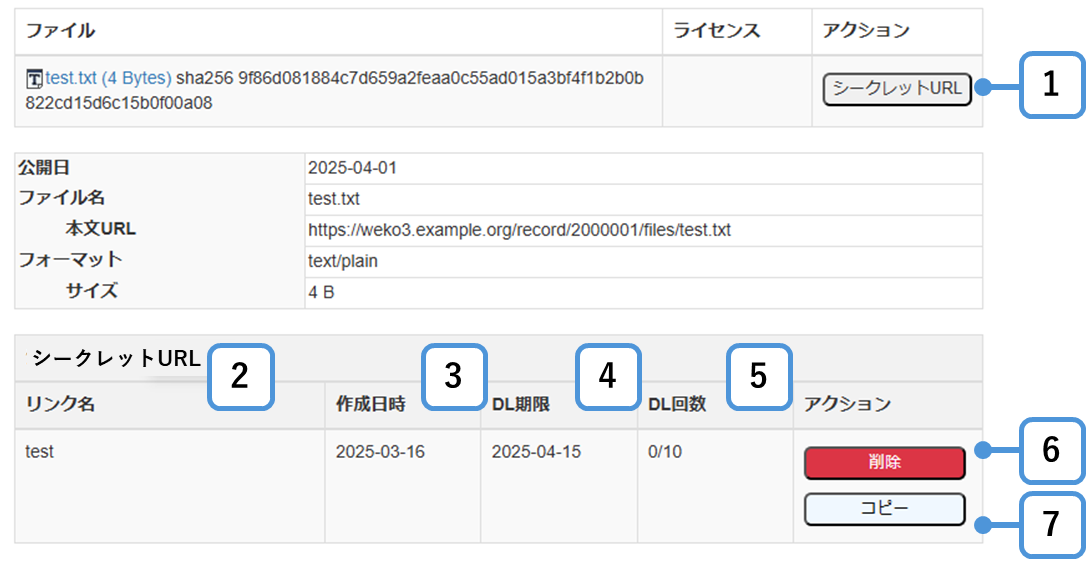
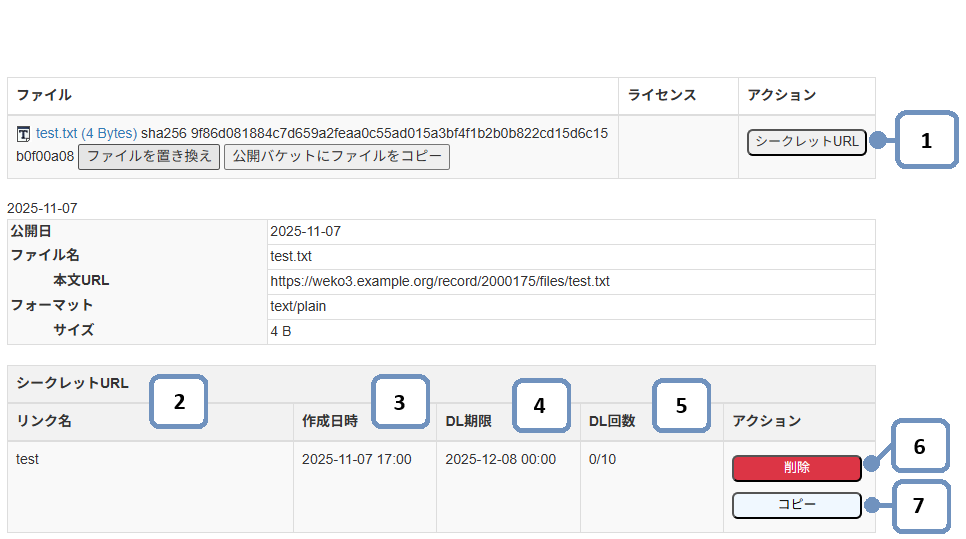
fix secret url image

diff --git a/docs/manuals/USER/base/README.md b/docs/manuals/USER/base/README.md
@@ -5016,120 +5016,6 @@ Registration\]画面で表示されるファイル情報の入力エリア順と
 
 ![](media/media/image294.png)
 
-### 非公開コンテンツをワンタイムアドレスを利用して共有したい
-
-
-#### シークレットURL機能
-<p>管理者画面でシークレットURL機能を有効化することで、シークレットURLを発行することができます。<br>
-シークレットURLとは、投稿者（代理投稿者を含む）及びシステム、リポジトリ管理者が発行できるワンタムアドレスであり、このURLを知っている人は、誰でも対象のコンテンツファイルをダウンロードできます</p>
-
-**本機能は、公開コンテンツ、ならびにサイトライセンス機能を利用してサイトライセンスユーザーに対してアクセス可能になっているコンテンツに対して、<span style="color: red; ">新たにアクセス権限を付与し、シークレットURLを通じたアクセスに制限する機能ではありません<span>。**
-
- 下記の条件を満たすことで、Information画面のファイルエリアに「Secret URL」ボタンが表示されます。
- 
- 1.アイテム投稿者・アイテムの代理投稿者・リポジトリ管理者・システム管理者がログインしている。
- 
- 2.管理画面の制限公開画面にて、シークレットURLの表示を有効化している。
- 
- 3.当該ファイルを「公開しない」と設定している。または、ファイルが「オープンアクセス日を指定する」と設定し、指定日が未来日である。
- 
- ![](media/media/images01.png)
- 
- 図9s1 シークレットURL機能を有効化した場合のInformation画面ファイルエリア
-
-シークレットURL機能を有効化した場合、以下の項目が追加されます。
-
-表 9‑s1 シークレットURL機能有効化時に表示される項目と説明
-
-<table>
-<thead>
-<tr class="header">
-<th>項番</th>
-<th>項目</th>
-<th>説明</th>
-</tr>
-</thead>
-<tbody>
-<tr class="odd">
-<td>1</td>
-<td>シークレットURLボタン</td>
-<td><p>このボタンをクリックすることで、シークレットURLを作成欄が表示されます。</p></td>
-</tr>
-<tr class="even">
-<td>2</td>
-<td>リンク名</td>
-<td><p>シークレットURLが作成されている場合に表示されます。</p><p>シークレットURL作成時に付与したリンク名、リンク名を付与しなかった場合は当該URLの識別子が表示されます</p></td>
-</tr>
-<tr class="odd">
-<td>3</td>
-<td>作成日時</td>
-<td><p>シークレットURLが作成されている場合に表示されます。</p><p>当該シークレットURLの作成日時が表示されます</p></td>
-</tr>
-<tr class="even">
-<td>4</td>
-<td>DL期限</td>
-<td><p>シークレットURLが作成されている場合に表示されます。</p><p>当該シークレットURLのDL回数と残DL回数が表示されます</p></td>
-</tr>
-<tr class="odd">
-<td>6</td>
-<td>削除ボタン</td>
-<td><p>シークレットURLが作成されている場合に表示されます。</p><p>このボタンをクリックすると、削除確認モーダル画面が表示され、このモーダル画面内の削除ボタンをクリックすると、当該シークレットURLが削除されます。削除をやめる場合は閉じるボタンをクリックし、モーダル画面を閉じてください。</p></td>
-<tr class="odd">
-<td>7</td>
-<td>コピーボタン</td>
-<td><p>シークレットURLが作成されている場合に表示されます。</p><p>このボタンをクリックすると、モーダル画面が表示され、発行したシークレットURLをクリップボードにコピーすることができます。モーダル画面上の閉じるボタンをクリックすることで、モーダル画面を閉じることができます。</p></td>
-</tr>
-</tr>
-</tbody>
-</table>
-
-「Secret URL」ボタンをクリックすると、シークレットURL編集作成欄が表示されます。
-
-　![](media/media/images02.png)
-
-図 9s2 シークレッㇳURLボタンをクリックし、シークレットURL作成欄を表示した状態
-
-シークレットURL作成欄の各項目の内容は以下の通りです。
-
-表 9‑s2 シークレットURL作成欄の項目と説明
-
-<table>
-<thead>
-<tr class="header">
-<th>項番</th>
-<th>項目</th>
-<th>説明</th>
-</tr>
-</thead>
-<tbody>
-<tr class="odd">
-<td>1</td>
-<td>作成ボタン</td>
-<td><p>このボタンをクリックすることで、シークレットURLを作成します。</p></td>
-</tr>
-<tr class="even">
-<td>2</td>
-<td>メール通知 チェックボックス</td>
-<td>このチェックボックスにチェックを入れ、作成ボタンをクリックすると、シークレットURLボタンをクリックしたアカウントに対してメールで通知します。</td>
-</tr>
-<tr class="odd">
-<td>3</td>
-<td>リンク名フィールド</td>
-<td><p>作製するシークレットURLのファイル名を入力する。</p></td>
-</tr>
-<tr class="even">
-<td>4</td>
-<td>DL期限フィールド</td>
-<td>作製するシークレットURLのDL期限をカレンダーから選択し、設定します。</td>
-></tr>
-<tr class="odd">
-<td>5</td>
-<td>DL回数フィールド</td>
-<td>作製するシークレットURLのDL回数を設定します。</td>
-</tr>
-</tbody>
-</table>
-
 ### Cookie使用確認画面を表示したい
 
 Cookieの使用確認画面を表示する方法を説明します。
@@ -5263,17 +5149,22 @@ Cookieの使用確認画面を表示する方法を説明します。
 <tr class="even">
 <td>4</td>
 <td>DL期限</td>
-<td><p>シークレットURLが作成されている場合に表示されます。</p><p>当該シークレットURLのDL回数と残DL回数が表示されます</p></td>
+<td><p>シークレットURLが作成されている場合に表示されます。</p><p>当該シークレットURLの有効期限が表示されます</p></td>
 </tr>
 <tr class="odd">
+<td>5</td>
+<td>DL回数</td>
+<td><p>シークレットURLが作成されている場合に表示されます。</p><p>当該シークレットURLのDL回数と残DL回数が表示されます</p></td>
+</tr>
+<tr class="even">
 <td>6</td>
 <td>削除ボタン</td>
 <td><p>シークレットURLが作成されている場合に表示されます。</p><p>このボタンをクリックすると、削除確認モーダル画面が表示され、このモーダル画面内の削除ボタンをクリックすると、当該シークレットURLが削除されます。削除をやめる場合は閉じるボタンをクリックし、モーダル画面を閉じてください。</p></td>
-<tr class="even">
+</tr>
+<tr class="odd">
 <td>7</td>
 <td>コピーボタン</td>
 <td><p>シークレットURLが作成されている場合に表示されます。</p><p>このボタンをクリックすると、モーダル画面が表示され、発行したシークレットURLをクリップボードにコピーすることができます。モーダル画面上の閉じるボタンをクリックすることで、モーダル画面を閉じることができます。</p></td>
-</tr>
 </tr>
 </tbody>
 </table>
